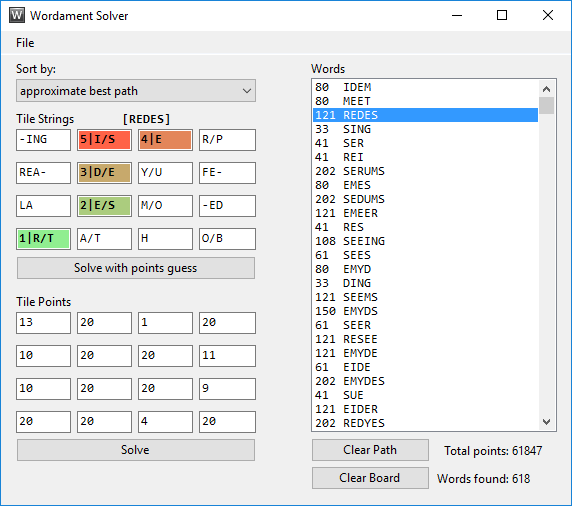
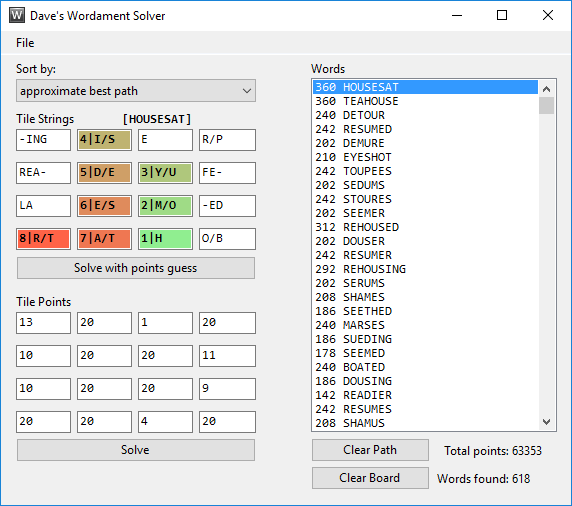
Release

diff --git a/Daves.WordamentSolver.UnitTests/WordSorters/WordSorterTests.cs b/Daves.WordamentSolver.UnitTests/WordSorters/WordSorterTests.cs
@@ -82,7 +82,12 @@ namespace Daves.WordamentSolver.UnitTests.WordSorters
         [TestMethod]
         public void ApproximateBestPathSorterFindsABetterPathThanOtherWordSorters()
         {
-            var board = new Board(4, 4, p => _tileStrings2[p], p => null);
+            ApproximateBestPathSorterFindsABetterPathThanOtherWordSorters(new Board(4, 4, p => _tileStrings2[p], p => null));
+            ApproximateBestPathSorterFindsABetterPathThanOtherWordSorters(new Board(4, 4, p => SolutionTests.ComplexTileStrings[p], p => null));
+        }
+
+        private void ApproximateBestPathSorterFindsABetterPathThanOtherWordSorters(Board board)
+        {
             board.GuessTilePoints();
             var solution = new Solution(board);
 

diff --git a/README.md b/README.md
@@ -3,7 +3,7 @@ Dave's Wordament Solver
 
 Wordament solver that handles an arbitrary number of special tiles, finds the many-to-many word-path relationships, and approximates a best path.
 
-Latest release [here](https://github.com/davghouse/Daves.WordamentSolver/releases/tag/v1.3.3).
+Latest release [here](https://github.com/davghouse/Daves.WordamentSolver/releases/tag/v1.4.0).
 
 Solver library available as a [NuGet Package](https://www.nuget.org/packages/Daves.WordamentSolver).
 
@@ -19,12 +19,16 @@ As a minor optimization, previous search results are used to skip down into the 
 I'm using the Model-View-Presenter pattern.
 The view knows nothing about the presenter, it just fires events for the presenter to subscribe to and handle. Everything knows about the model (but as little as possible).
 
-Everything is made to be generalizable, so it would be easy to extend the solution to support new tile types, different board sizes (as long as they're rectangular), and different allowed moves (like only diagonals, or weird jumps).
+Everything is made to be generalizable, so it would be easy to extend the solution to support new tile types, different board sizes (as long as they're rectangular), different allowed moves (like only diagonals, or weird jumps), or other languages.
 Any number of special tiles are allowed, and invalid tiles are handled gracefully by simply being ignored.
 
-The best path is a travelling salesman problem where words are vertices and edge lengths are the distances from a word's last tile to another word's first tile (in units of tile length).
+The best path is a travelling salesman problem where words are vertices and edge lengths are the distances from a word's last tile to another word's first tile.
 Visiting a word adds on a fixed amount of length equal to the word's path length (but you could incorporate this into the edges).
-We want to find the shortest path visiting each word exactly once.
+We want to find the shortest path visiting each word exactly once... well, sort of.
+It's a little more complicated than that because we don't actually visit words, we visit paths.
+A path can yield multiple words (either/or tiles), and it's not just any path producing a word that we visit, the path has to be a best path for a word.
+Words can be produced by many paths, the best one is the one that's worth the most points.
+For a board full of basic tiles these distinctions don't matter, because paths only yield one word and all paths yielding a word are worth the same amount of points.
 I'm just doing a nearest neighbor approximation for now, which seems really good.
 For example, on a board where the total path length from the words themselves was 930, the nearest neighbor path length was 1060, and the path length from sorting by anything else was around 1400.
 
@@ -48,13 +52,6 @@ I don't know how to create those designations.
 This matters because at least 'common' digram words get a bonus of 5 points, after length multipliers are applied.
 Theme-based words get bonuses too, another case I can't handle, and there could be more.
 
-There are ordering options based on physical path length.
-Paths may be non-unique and I take the first valid one found, so the displayed ordering may be one of many.
-
-Tile points can be input manually, or if the board-type allows it or an approximation is acceptable, the following values can be automatically used:
-
-A 2, B 5, C 3, D 3, E 1, F 5, G 4, H 4, I 2, J 10, K 6, L 3, M 4, N 2, O 2, P 4, Q 8, R 2, S 2, T 2, U 4, V 6, W 6, X 9, Y 5, Z 8.
-
 Either/or tiles get a fixed value of 20 points.
 That's what I've seen in recent games (as of 2014).
 Other multi-letter tiles get their individual values summed + 5.
@@ -62,4 +59,3 @@ Other multi-letter tiles get their individual values summed + 5.
 
 I'm not sure if base tiles always have the same values when not specified otherwise in high-value type boards / letter in the corners type boards.
 I'm not sure if I can figure out the exact value of prefix/suffix/digram/either\or tiles.
-I've only looked into it a little bit.
